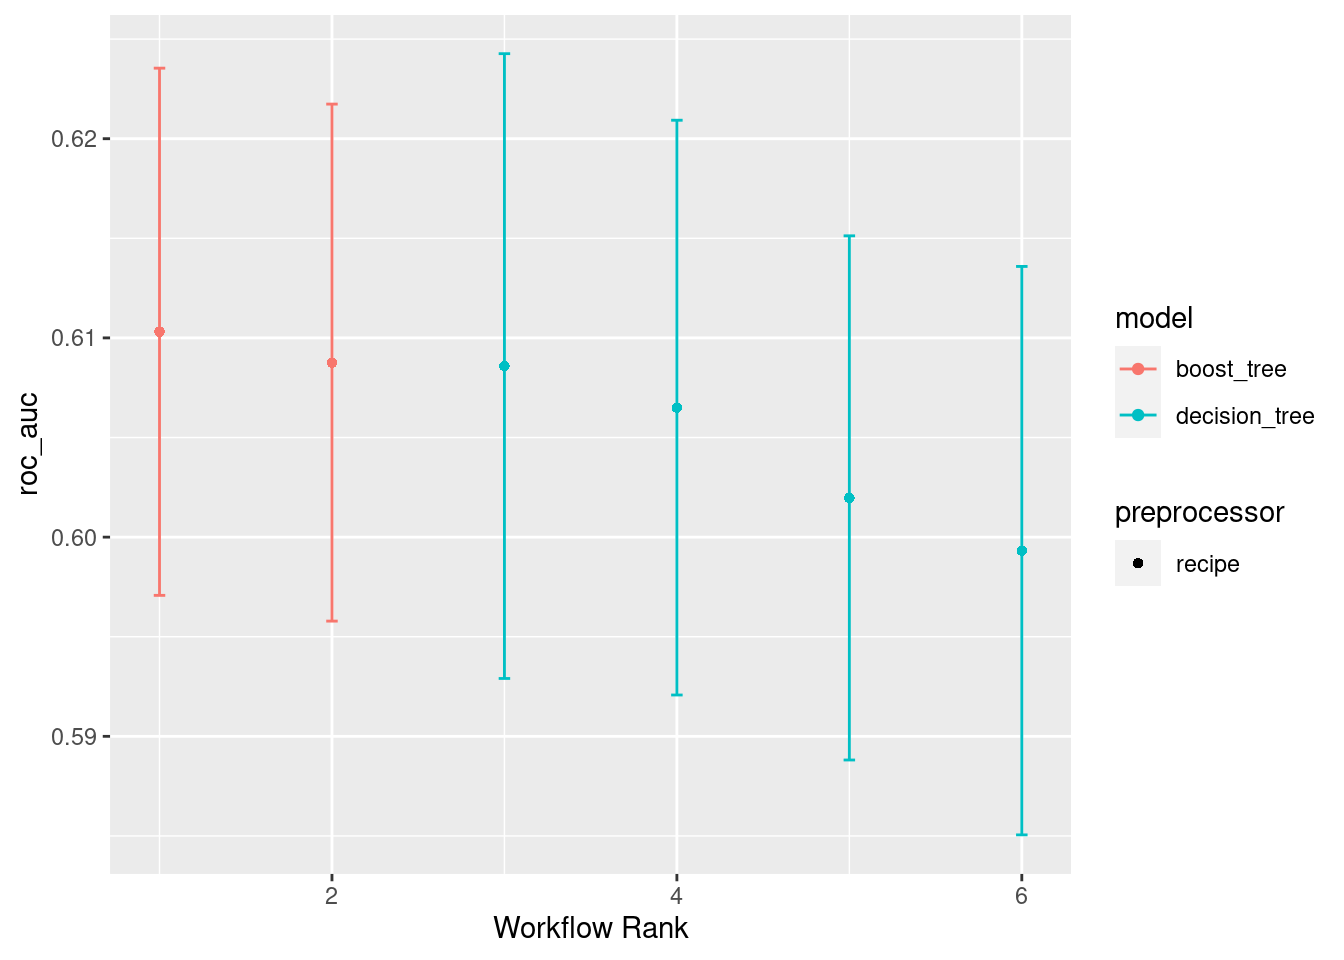
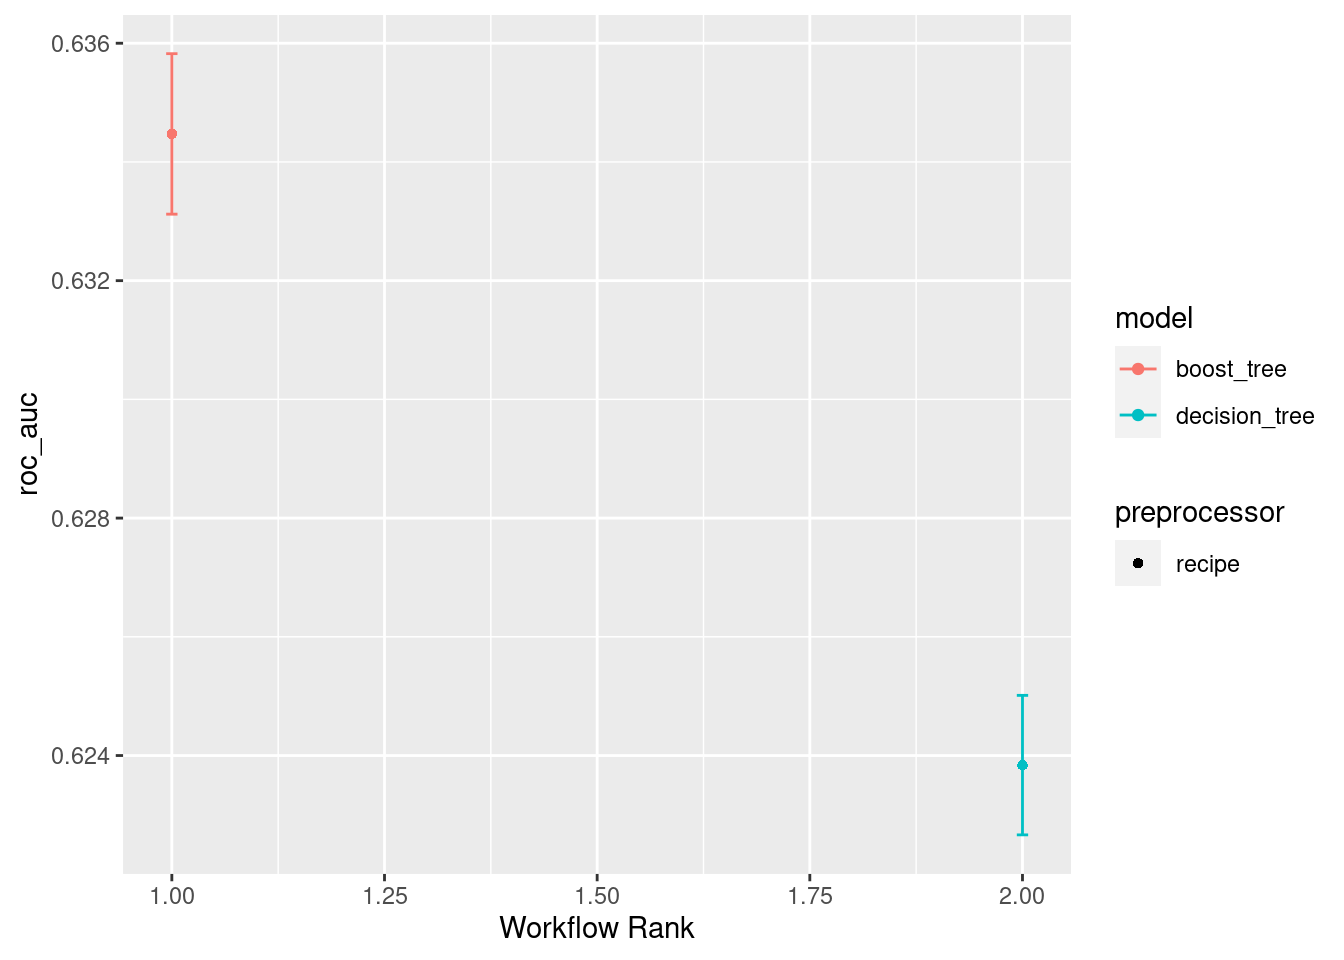
Bigger sample

diff --git a/docs/dengue-model/dengue_classification_symptoms_conditions_multi.html b/docs/dengue-model/dengue_classification_symptoms_conditions_multi.html
@@ -472,10 +472,7 @@ gtag('config', 'G-ZMP18L536K', { 'anonymize_ip': true});
    
   <ul>
   <li><a href="#packages" id="toc-packages" class="nav-link active" data-scroll-target="#packages">Packages</a></li>
-  <li><a href="#data" id="toc-data" class="nav-link" data-scroll-target="#data">Data</a>
-  <ul class="collapse">
-  <li><a href="#sampling" id="toc-sampling" class="nav-link" data-scroll-target="#sampling">Sampling</a></li>
-  </ul></li>
+  <li><a href="#data" id="toc-data" class="nav-link" data-scroll-target="#data">Data</a></li>
   <li><a href="#modeling" id="toc-modeling" class="nav-link" data-scroll-target="#modeling">Modeling</a>
   <ul class="collapse">
   <li><a href="#train-and-test-dataset-split" id="toc-train-and-test-dataset-split" class="nav-link" data-scroll-target="#train-and-test-dataset-split">Train and test dataset split</a></li>
@@ -513,7 +510,7 @@ gtag('config', 'G-ZMP18L536K', { 'anonymize_ip': true});
     <div>
     <div class="quarto-title-meta-heading">Last modification</div>
     <div class="quarto-title-meta-contents">
-      <p class="date">July 10, 2023 | 15:12:18 +02:00</p>
+      <p class="date">July 10, 2023 | 15:17:22 +02:00</p>
     </div>
   </div>
   
@@ -544,7 +541,6 @@ gtag('config', 'G-ZMP18L536K', { 'anonymize_ip': true});
 <ul>
 <li><p>Data prior to 2016 does not have patient symptoms and clinical conditions.</p></li>
 <li><p>Cases classified as inconclusive are discarded for model training.</p></li>
-<li><p>The data set is sampled for faster performance.</p></li>
 </ul>
 <div class="cell">
 <div class="sourceCode cell-code" id="cb2"><pre class="sourceCode r code-with-copy"><code class="sourceCode r"><span id="cb2-1"><a href="#cb2-1" aria-hidden="true" tabindex="-1"></a><span class="co"># Data sources</span></span>
@@ -585,13 +581,10 @@ gtag('config', 'G-ZMP18L536K', { 'anonymize_ip': true});
 <span id="cb2-36"><a href="#cb2-36" aria-hidden="true" tabindex="-1"></a>  <span class="fu">mutate</span>(<span class="at">COMUNINF =</span> <span class="fu">as.factor</span>(COMUNINF)) <span class="sc">%&gt;%</span></span>
 <span id="cb2-37"><a href="#cb2-37" aria-hidden="true" tabindex="-1"></a>  <span class="fu">mutate_at</span>(<span class="at">.vars =</span> x_vars, <span class="at">.funs =</span> <span class="sc">~</span> . <span class="sc">==</span> <span class="st">"Sim"</span>) </span></code><button title="Copy to Clipboard" class="code-copy-button"><i class="bi"></i></button></pre></div>
 </div>
-<section id="sampling" class="level3">
-<h3 class="anchored" data-anchor-id="sampling">Sampling</h3>
 <div class="cell">
 <div class="sourceCode cell-code" id="cb3"><pre class="sourceCode r code-with-copy"><code class="sourceCode r"><span id="cb3-1"><a href="#cb3-1" aria-hidden="true" tabindex="-1"></a><span class="co"># Smaller dataset for tests</span></span>
-<span id="cb3-2"><a href="#cb3-2" aria-hidden="true" tabindex="-1"></a>dengue <span class="ot">&lt;-</span> <span class="fu">sample_n</span>(dengue, <span class="dv">5000</span>)</span></code><button title="Copy to Clipboard" class="code-copy-button"><i class="bi"></i></button></pre></div>
+<span id="cb3-2"><a href="#cb3-2" aria-hidden="true" tabindex="-1"></a>dengue <span class="ot">&lt;-</span> <span class="fu">sample_n</span>(dengue, <span class="dv">500000</span>)</span></code><button title="Copy to Clipboard" class="code-copy-button"><i class="bi"></i></button></pre></div>
 </div>
-</section>
 </section>
 <section id="modeling" class="level2">
 <h2 class="anchored" data-anchor-id="modeling">Modeling</h2>
@@ -684,7 +677,7 @@ gtag('config', 'G-ZMP18L536K', { 'anonymize_ip': true});
 </div>
 <div class="sourceCode cell-code" id="cb11"><pre class="sourceCode r code-with-copy"><code class="sourceCode r"><span id="cb11-1"><a href="#cb11-1" aria-hidden="true" tabindex="-1"></a><span class="fu">toc</span>()</span></code><button title="Copy to Clipboard" class="code-copy-button"><i class="bi"></i></button></pre></div>
 <div class="cell-output cell-output-stdout">
-<pre><code>40.789 sec elapsed</code></pre>
+<pre><code>1867.215 sec elapsed</code></pre>
 </div>
 </div>
 <section id="race-metrics" class="level4">
@@ -694,21 +687,13 @@ gtag('config', 'G-ZMP18L536K', { 'anonymize_ip': true});
 <span id="cb13-2"><a href="#cb13-2" aria-hidden="true" tabindex="-1"></a></span>
 <span id="cb13-3"><a href="#cb13-3" aria-hidden="true" tabindex="-1"></a>train_rank_results</span></code><button title="Copy to Clipboard" class="code-copy-button"><i class="bi"></i></button></pre></div>
 <div class="cell-output cell-output-stdout">
-<pre><code># A tibble: 12 × 9
-   wflow_id      .config    .metric  mean std_err     n preprocessor model  rank
-   &lt;chr&gt;         &lt;chr&gt;      &lt;chr&gt;   &lt;dbl&gt;   &lt;dbl&gt; &lt;int&gt; &lt;chr&gt;        &lt;chr&gt; &lt;int&gt;
- 1 recipe_1_xgb  Preproces… accura… 0.607 0.00803    10 recipe       boos…     1
- 2 recipe_1_xgb  Preproces… roc_auc 0.610 0.00804    10 recipe       boos…     1
- 3 recipe_1_xgb  Preproces… accura… 0.608 0.00509    10 recipe       boos…     2
- 4 recipe_1_xgb  Preproces… roc_auc 0.609 0.00789    10 recipe       boos…     2
- 5 recipe_1_cart Preproces… accura… 0.615 0.00832    10 recipe       deci…     3
- 6 recipe_1_cart Preproces… roc_auc 0.609 0.00953    10 recipe       deci…     3
- 7 recipe_1_cart Preproces… accura… 0.604 0.00796    10 recipe       deci…     4
- 8 recipe_1_cart Preproces… roc_auc 0.607 0.00877    10 recipe       deci…     4
- 9 recipe_1_cart Preproces… accura… 0.602 0.00728    10 recipe       deci…     5
-10 recipe_1_cart Preproces… roc_auc 0.602 0.00800    10 recipe       deci…     5
-11 recipe_1_cart Preproces… accura… 0.598 0.00620    10 recipe       deci…     6
-12 recipe_1_cart Preproces… roc_auc 0.599 0.00867    10 recipe       deci…     6</code></pre>
+<pre><code># A tibble: 4 × 9
+  wflow_id      .config     .metric  mean std_err     n preprocessor model  rank
+  &lt;chr&gt;         &lt;chr&gt;       &lt;chr&gt;   &lt;dbl&gt;   &lt;dbl&gt; &lt;int&gt; &lt;chr&gt;        &lt;chr&gt; &lt;int&gt;
+1 recipe_1_xgb  Preprocess… accura… 0.621 7.98e-4    10 recipe       boos…     1
+2 recipe_1_xgb  Preprocess… roc_auc 0.634 8.22e-4    10 recipe       boos…     1
+3 recipe_1_cart Preprocess… accura… 0.615 5.03e-4    10 recipe       deci…     2
+4 recipe_1_cart Preprocess… roc_auc 0.624 7.14e-4    10 recipe       deci…     2</code></pre>
 </div>
 </div>
 <div class="cell">
@@ -729,7 +714,7 @@ gtag('config', 'G-ZMP18L536K', { 'anonymize_ip': true});
 <span id="cb16-5"><a href="#cb16-5" aria-hidden="true" tabindex="-1"></a></span>
 <span id="cb16-6"><a href="#cb16-6" aria-hidden="true" tabindex="-1"></a>selection_train</span></code><button title="Copy to Clipboard" class="code-copy-button"><i class="bi"></i></button></pre></div>
 <div class="cell-output cell-output-stdout">
-<pre><code>[1] "recipe_1_cart"</code></pre>
+<pre><code>[1] "recipe_1_xgb"</code></pre>
 </div>
 </div>
 <div class="cell">
@@ -739,10 +724,10 @@ gtag('config', 'G-ZMP18L536K', { 'anonymize_ip': true});
 <span id="cb18-4"><a href="#cb18-4" aria-hidden="true" tabindex="-1"></a></span>
 <span id="cb18-5"><a href="#cb18-5" aria-hidden="true" tabindex="-1"></a>best_results</span></code><button title="Copy to Clipboard" class="code-copy-button"><i class="bi"></i></button></pre></div>
 <div class="cell-output cell-output-stdout">
-<pre><code># A tibble: 1 × 3
-  cost_complexity min_n .config              
-            &lt;dbl&gt; &lt;int&gt; &lt;chr&gt;                
-1        0.000950    19 Preprocessor1_Model02</code></pre>
+<pre><code># A tibble: 1 × 4
+   mtry trees min_n .config              
+  &lt;int&gt; &lt;int&gt; &lt;int&gt; &lt;chr&gt;                
+1     3   174     8 Preprocessor1_Model02</code></pre>
 </div>
 </div>
 <div class="cell">
@@ -760,8 +745,8 @@ gtag('config', 'G-ZMP18L536K', { 'anonymize_ip': true});
 <pre><code># A tibble: 2 × 4
   .metric  .estimator .estimate .config             
   &lt;chr&gt;    &lt;chr&gt;          &lt;dbl&gt; &lt;chr&gt;               
-1 accuracy binary         0.599 Preprocessor1_Model1
-2 roc_auc  binary         0.581 Preprocessor1_Model1</code></pre>
+1 accuracy binary         0.621 Preprocessor1_Model1
+2 roc_auc  binary         0.635 Preprocessor1_Model1</code></pre>
 </div>
 </div>
 <div class="cell">
@@ -769,9 +754,9 @@ gtag('config', 'G-ZMP18L536K', { 'anonymize_ip': true});
 <span id="cb23-2"><a href="#cb23-2" aria-hidden="true" tabindex="-1"></a>    <span class="fu">conf_mat</span>(CLASSI_FIN, .pred_class)</span></code><button title="Copy to Clipboard" class="code-copy-button"><i class="bi"></i></button></pre></div>
 <div class="cell-output cell-output-stdout">
 <pre><code>          Truth
-Prediction FALSE TRUE
-     FALSE   175  149
-     TRUE    352  574</code></pre>
+Prediction FALSE  TRUE
+     FALSE 16535 10711
+     TRUE  36701 61054</code></pre>
 </div>
 </div>
 <div class="cell">
